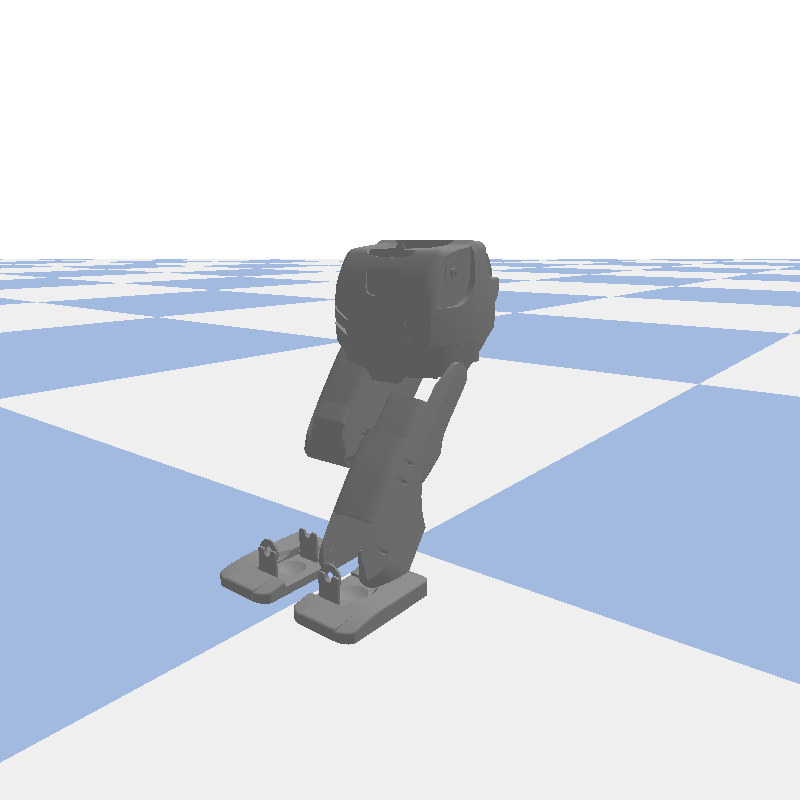
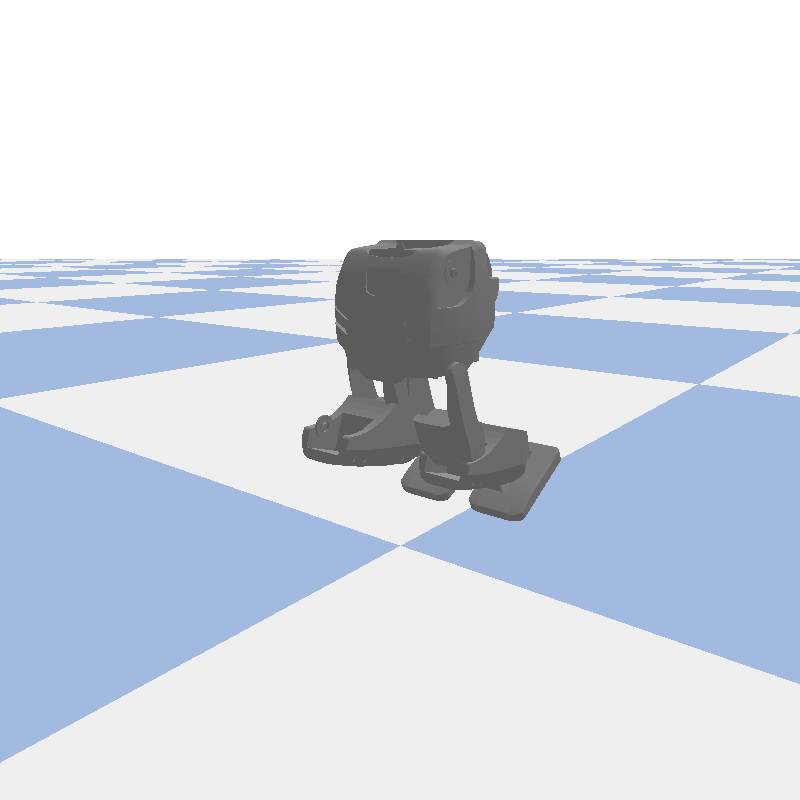
fix: 修正步态逆运动学和关节方向
- 重写 IK 计算，使用正确的几何关系
- 修正关节符号适配 URDF 轴定义
- 优化步态参数：站立高度0.17m，步长2.5cm，抬脚2cm，周期0.8s
- 机器人姿态正常，双腿完整显示

Changed region(s): [[0.2812, 0.4688, 0.7188, 0.8125], [0.375, 0.4375, 0.4375, 0.5625]]

diff --git a/scripts/simple_walking_gait.py b/scripts/simple_walking_gait.py
@@ -22,10 +22,10 @@ class RobotParams:
     HIP_OFFSET_Z = 0.0907 # m (髋关节垂直偏移)
     
     # 步态参数
-    STANDING_HEIGHT = 0.16  # m (站立时髋关节到脚底的距离)
-    STEP_LENGTH = 0.02      # m (步长)
-    STEP_HEIGHT = 0.015     # m (抬脚高度)
-    STEP_PERIOD = 1.0       # s (单步周期)
+    STANDING_HEIGHT = 0.17  # m (站立时髋关节到脚底的距离，稍高一点)
+    STEP_LENGTH = 0.025     # m (步长)
+    STEP_HEIGHT = 0.02      # m (抬脚高度)
+    STEP_PERIOD = 0.8       # s (单步周期)
 
 # ============== 逆运动学 ==============
 class InverseKinematics3DOF:
@@ -41,32 +41,42 @@ class InverseKinematics3DOF:
         """
         输入: 脚相对于髋关节的位置 (x=前向, z=向下为负)
         输出: [hip_pitch, knee, ankle_pitch]
+        
+        坐标系: x向前, z向下为负
+        关节正方向: 绕Y轴，向前踢腿为正
         """
-        # 目标距离
-        r = math.sqrt(x*x + z*z)
+        # z应该是负值（脚在髋关节下方）
+        # 转换为正值计算
+        leg_length = -z  # 腿的垂直长度（正值）
+        forward = x       # 前向偏移
+        
+        # 计算髋关节到脚的距离
+        r = math.sqrt(forward**2 + leg_length**2)
         
         # 限制在可达范围内
-        max_reach = self.L1 + self.L2 - 0.005
-        min_reach = abs(self.L1 - self.L2) + 0.005
-        r = np.clip(r, min_reach, max_reach)
+        max_reach = self.L1 + self.L2 - 0.002
+        min_reach = abs(self.L1 - self.L2) + 0.002
+        if r > max_reach:
+            r = max_reach
+        if r < min_reach:
+            r = min_reach
         
         # 余弦定理求膝关节角度
-        # knee_angle = pi - (L1和L2之间的夹角)
-        cos_knee_inner = (self.L1**2 + self.L2**2 - r**2) / (2 * self.L1 * self.L2)
-        cos_knee_inner = np.clip(cos_knee_inner, -1, 1)
-        knee_inner = math.acos(cos_knee_inner)  # L1-L2夹角
-        knee = knee_inner - math.pi  # 膝关节弯曲角度（负值）
+        cos_knee = (self.L1**2 + self.L2**2 - r**2) / (2 * self.L1 * self.L2)
+        cos_knee = np.clip(cos_knee, -1, 1)
+        knee = -(math.pi - math.acos(cos_knee))  # 膝关节弯曲（负值表示向后弯）
         
-        # 求髋关节角度
-        # alpha: 目标点相对于髋关节的方向角
-        alpha = math.atan2(x, -z)  # x前向，-z向下
+        # 髋关节角度
+        # 使用几何关系
+        cos_alpha = (self.L1**2 + r**2 - self.L2**2) / (2 * self.L1 * r)
+        cos_alpha = np.clip(cos_alpha, -1, 1)
+        alpha = math.acos(cos_alpha)  # 大腿与髋-脚连线的夹角
         
-        # beta: 大腿相对于髋-脚连线的偏角
-        sin_beta = self.L2 * math.sin(knee_inner) / r
-        sin_beta = np.clip(sin_beta, -1, 1)
-        beta = math.asin(sin_beta)
+        # 髋-脚连线与垂直方向的夹角
+        gamma = math.atan2(forward, leg_length)
         
-        hip_pitch = alpha - beta
+        # 髋关节角度 = gamma - alpha（向前为正）
+        hip_pitch = gamma - alpha
         
         # 踝关节保持脚底水平
         ankle_pitch = -(hip_pitch + knee)
@@ -193,15 +203,18 @@ def run_simulation():
     gait = SimpleWalkingGait()
     
     # 关节名称和对应的符号（适配 URDF 中的轴定义）
-    # URDF 中：l_hip_pitch axis=(0,-1,0), l_knee axis=(0,-1,0), l_ankle_pitch axis=(0,1,0)
-    #          r_hip_pitch axis=(0,-1,0), r_knee axis=(0,-1,0), r_ankle_pitch axis=(0,1,0)
+    # URDF: l_hip_pitch axis=(0,-1,0), l_knee axis=(0,-1,0), l_ankle_pitch axis=(0,1,0)
+    #       r_hip_pitch axis=(0,-1,0), r_knee axis=(0,-1,0), r_ankle_pitch axis=(0,1,0)
+    # 我们的IK: 正值=向前踢腿
+    # URDF: axis=(0,-1,0) 意味着正角度绕-Y轴旋转，即向后踢腿
+    # 所以需要取反
     joint_config = [
-        ('l_hip_pitch', -1),   # 需要取反
-        ('l_knee', -1),        # 需要取反
-        ('l_ankle_pitch', 1),  # 不取反
-        ('r_hip_pitch', -1),   # 需要取反
-        ('r_knee', -1),        # 需要取反
-        ('r_ankle_pitch', 1),  # 不取反
+        ('l_hip_pitch', 1),    # axis=(0,-1,0)，我们的正=URDF的负
+        ('l_knee', 1),         # axis=(0,-1,0)
+        ('l_ankle_pitch', -1), # axis=(0,1,0)，方向相反
+        ('r_hip_pitch', 1),    # axis=(0,-1,0)
+        ('r_knee', 1),         # axis=(0,-1,0)
+        ('r_ankle_pitch', -1), # axis=(0,1,0)
     ]
     
     # 设置初始站立姿态
